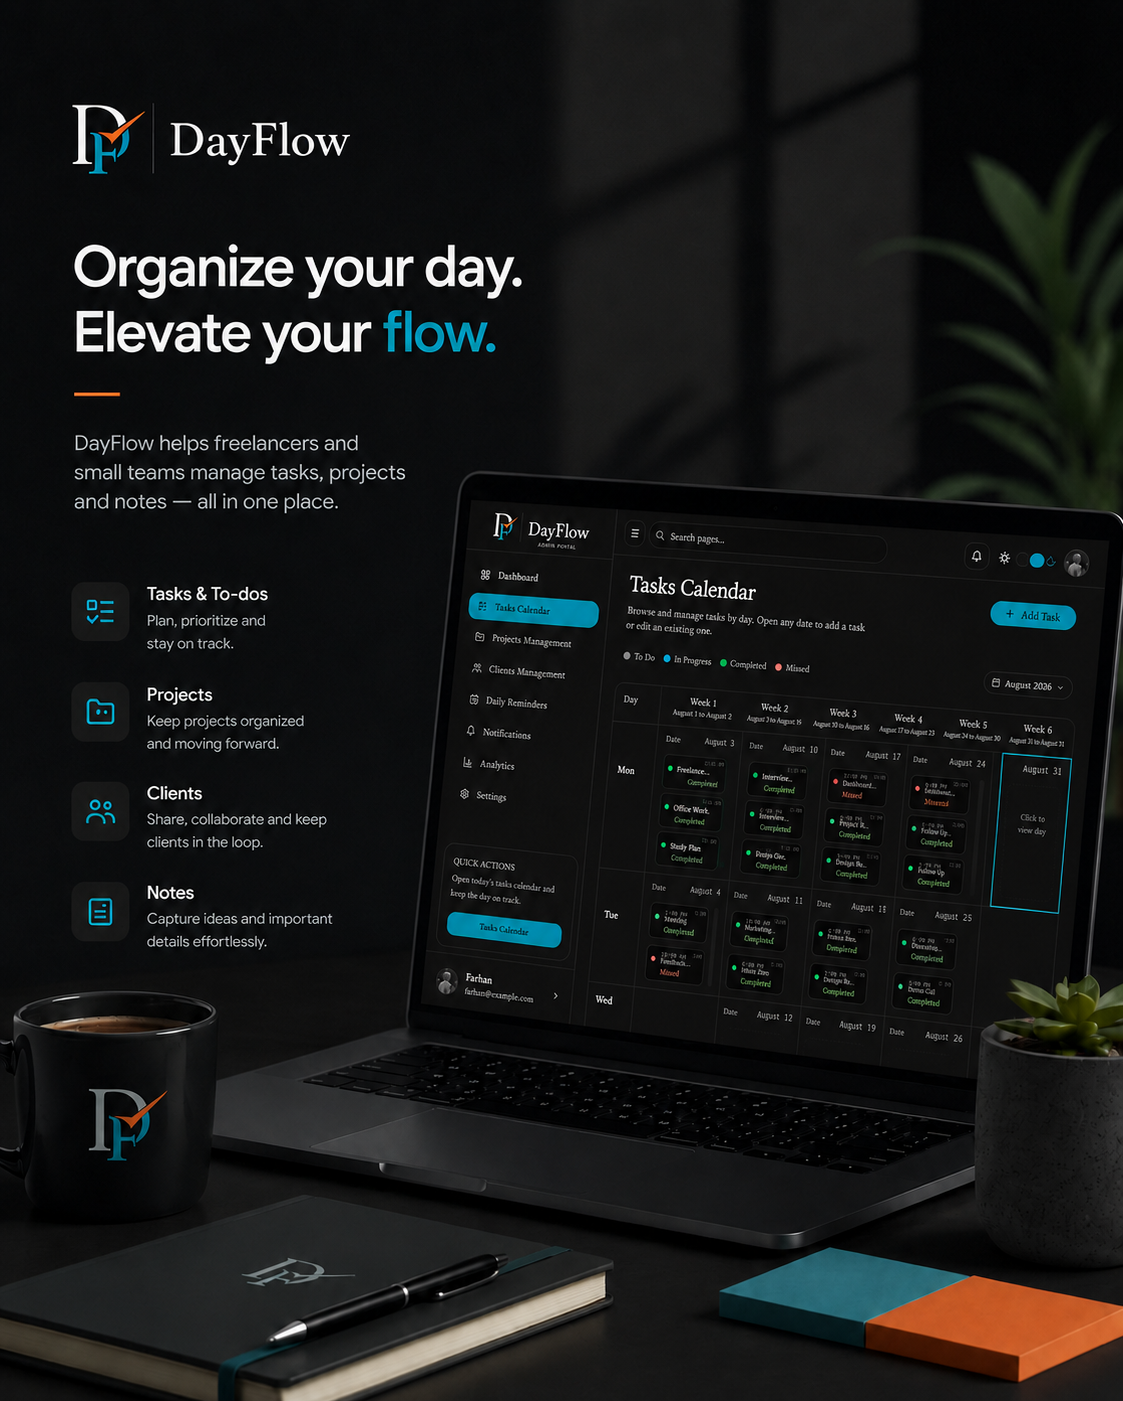
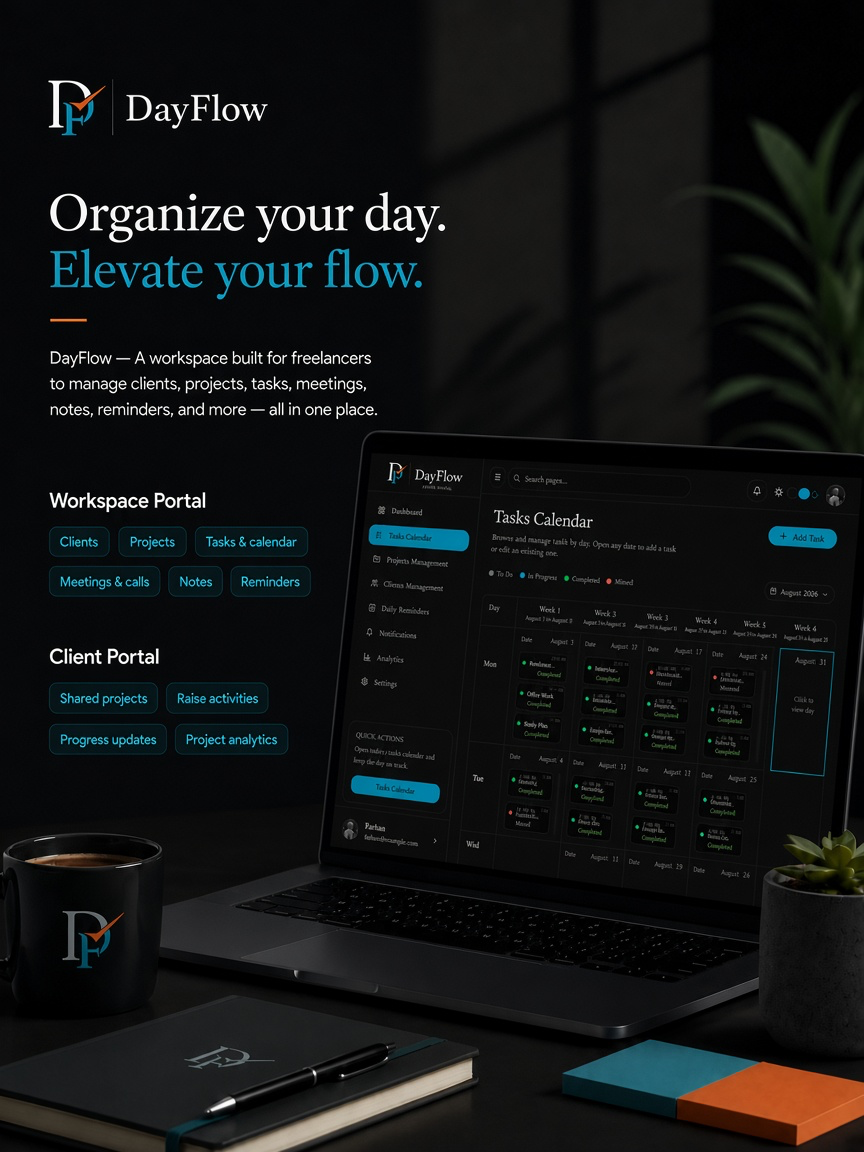
Enhance Brand Integration and Update Portal Layouts
- Added support for JSON module resolution in TypeScript configuration.
- Updated brand promotion banner assets to use values from the brand manifest.
- Refactored portal layout components to dynamically pull brand information, including subtitles and mobile navigation descriptions.
- Improved user avatar handling in header menus and sidebar profiles for consistent branding.
- Introduced a new function to load portal configurations from the brand manifest, ensuring alignment with product positioning.

diff --git a/apps/web/src/shared/components/UserAvatar.tsx b/apps/web/src/shared/components/UserAvatar.tsx
@@ -1,0 +1,55 @@
+import { useState } from "react";
+
+import { cn } from "@/shared/lib/utils";
+
+type UserAvatarProps = {
+  src?: string | null;
+  name: string;
+  initials: string;
+  className?: string;
+  imgClassName?: string;
+  initialsClassName?: string;
+  alt?: string;
+};
+
+/**
+ * Google avatar CDNs often reject requests that include a localhost Referer.
+ * `referrerPolicy="no-referrer"` fixes that; initials cover true load failures.
+ */
+export function UserAvatar({
+  src,
+  name,
+  initials,
+  className,
+  imgClassName,
+  initialsClassName,
+  alt,
+}: UserAvatarProps) {
+  const [failedSrc, setFailedSrc] = useState<string | null>(null);
+  const showImage = Boolean(src) && src !== failedSrc;
+
+  if (!showImage) {
+    return (
+      <span
+        className={cn(
+          "flex size-full items-center justify-center bg-primary/10 text-sm font-semibold text-primary",
+          initialsClassName,
+          className,
+        )}
+        aria-hidden={alt === "" ? true : undefined}
+      >
+        {initials}
+      </span>
+    );
+  }
+
+  return (
+    <img
+      src={src!}
+      alt={alt ?? name}
+      referrerPolicy="no-referrer"
+      onError={() => setFailedSrc(src ?? null)}
+      className={cn("size-full object-cover", imgClassName, className)}
+    />
+  );
+}

diff --git a/apps/web/src/features/client/layouts/ClientAppLayout.tsx b/apps/web/src/features/client/layouts/ClientAppLayout.tsx
@@ -6,12 +6,13 @@ import {
   CLIENT_PORTAL_SETTINGS_PATH,
 } from "@/app/constants/clientPortalRoutes";
 import { CLIENT_AUTH_HOME } from "@/features/client/constants/routes";
+import { BRAND_NAME, brandManifest } from "@/shared/brand/brandManifest";
 import { AppShellLayout } from "@/shared/layouts/AppShellLayout";
 import type { ShellSidebarConfig } from "@/shared/types/components";
 
 const sidebarConfig: ShellSidebarConfig = {
   homeLink: CLIENT_PORTAL_DASHBOARD_PATH,
-  brandSubtitle: "Client Portal",
+  brandSubtitle: brandManifest.portals.client.subtitle,
   nav: [
     { label: "Dashboard", to: CLIENT_PORTAL_DASHBOARD_PATH, icon: "dashboard" },
     { label: "Projects", to: CLIENT_PORTAL_PROJECTS_PATH, icon: "projects" },
@@ -40,7 +41,7 @@ export function ClientAppLayout() {
       accountPath={CLIENT_PORTAL_SETTINGS_PATH}
       settingsPath={CLIENT_PORTAL_SETTINGS_PATH}
       signOutRedirect={CLIENT_AUTH_HOME}
-      mobileNavDescription="DayFlow client portal navigation"
+      mobileNavDescription={`${BRAND_NAME} client portal navigation`}
     />
   );
 }

diff --git a/apps/web/src/shared/components/ShellSidebarProfile.tsx b/apps/web/src/shared/components/ShellSidebarProfile.tsx
@@ -9,6 +9,7 @@ import {
   TooltipContent,
   TooltipTrigger,
 } from "@/shared/ui/tooltip";
+import { UserAvatar } from "@/shared/components/UserAvatar";
 import {
   getInitialsFromName,
   getUserAvatarUrl,
@@ -37,23 +38,19 @@ export function ShellSidebarProfile({
   const initials = getInitialsFromName(displayName);
   const avatarUrl = profile?.avatar_url || getUserAvatarUrl(user);
 
-  const avatar = avatarUrl ? (
-    <img
+  const avatar = (
+    <UserAvatar
       src={avatarUrl}
+      name={displayName}
+      initials={initials}
       alt=""
-      className="size-full object-cover"
-    />
-  ) : (
-    <span
-      className={cn(
-        "flex size-full items-center justify-center text-xs font-semibold",
+      initialsClassName={cn(
+        "text-xs font-semibold",
         isActive
           ? "bg-primary-foreground/15 text-primary-foreground"
           : "bg-primary/10 text-primary",
       )}
-    >
-      {initials}
-    </span>
+    />
   );
 
   const link = (

diff --git a/apps/web/src/shared/layouts/AppLayout.tsx b/apps/web/src/shared/layouts/AppLayout.tsx
@@ -10,11 +10,12 @@ import {
   WORKSPACE_TASKS_CALENDAR_PATH,
 } from "@/app/constants/workspaceRoutes";
 import { NotificationsHeaderButton } from "@/features/workspace/notifications/components/NotificationsHeaderButton";
+import { BRAND_NAME, brandManifest } from "@/shared/brand/brandManifest";
 import type { ShellSidebarConfig } from "@/shared/types/components";
 
 const sidebarConfig: ShellSidebarConfig = {
   homeLink: WORKSPACE_DASHBOARD_PATH,
-  brandSubtitle: "Workspace",
+  brandSubtitle: brandManifest.portals.workspace.subtitle,
   nav: [
     { label: "Dashboard", to: WORKSPACE_DASHBOARD_PATH, icon: "dashboard" },
     {
@@ -62,7 +63,7 @@ export function AppLayout() {
       accountPath={WORKSPACE_SETTINGS_PATH}
       settingsPath={WORKSPACE_SETTINGS_PATH}
       headerActions={<NotificationsHeaderButton />}
-      mobileNavDescription="DayFlow workspace navigation and links"
+      mobileNavDescription={`${BRAND_NAME} workspace navigation and links`}
     />
   );
 }

diff --git a/apps/web/src/shared/components/PortalUserHeaderMenu.tsx b/apps/web/src/shared/components/PortalUserHeaderMenu.tsx
@@ -15,6 +15,7 @@ import {
   DropdownMenuSeparator,
   DropdownMenuTrigger,
 } from "@/shared/ui/dropdown-menu";
+import { UserAvatar } from "@/shared/components/UserAvatar";
 import {
   getInitialsFromName,
   getUserAvatarUrl,
@@ -60,17 +61,11 @@ export function PortalUserHeaderMenu({
               avatarUrl && "bg-transparent",
             )}
           >
-            {avatarUrl ? (
-              <img
-                src={avatarUrl}
-                alt={displayName}
-                className="size-full object-cover"
-              />
-            ) : (
-              <span className="flex size-full items-center justify-center bg-primary/10 text-sm font-semibold text-primary">
-                {initials}
-              </span>
-            )}
+            <UserAvatar
+              src={avatarUrl}
+              name={displayName}
+              initials={initials}
+            />
           </Button>
         </DropdownMenuTrigger>
 

diff --git a/apps/web/src/shared/components/SidebarBrand.tsx b/apps/web/src/shared/components/SidebarBrand.tsx
@@ -1,3 +1,4 @@
+import { BRAND_NAME } from "@/shared/brand/brandManifest";
 import { resolveBrandLogoSrc } from "@/shared/constants/brandAssets";
 import { useTheme } from "@/shared/providers/ThemeProvider";
 import { cn } from "@/shared/lib/utils";
@@ -20,7 +21,7 @@ export function SidebarBrand({
     return (
       <img
         src={iconSrc}
-        alt="DayFlow"
+        alt={BRAND_NAME}
         className={cn("size-9.75 shrink-0 object-contain", className)}
       />
     );
@@ -40,7 +41,7 @@ export function SidebarBrand({
       />
       <div className="min-w-0 shrink-0">
         <p className="font-serif text-[1.25rem] font-semibold leading-none tracking-[0.02em] text-sidebar-foreground">
-          DayFlow
+          {BRAND_NAME}
         </p>
         {subtitle ? (
           <p className="mt-0.5 text-[9px] font-semibold uppercase leading-none tracking-[0.1em] text-muted-foreground">

diff --git a/apps/web/src/shared/constants/brandAssets.ts b/apps/web/src/shared/constants/brandAssets.ts
@@ -1,3 +1,5 @@
+import { brandManifest } from "@/shared/brand/brandManifest";
+
 /** DayFlow brand images in /public — use these paths only. */
 export const BRAND_LOGO = {
   light: "/logo-light.png",
@@ -7,11 +9,11 @@ export const BRAND_LOGO = {
 } as const;
 
 export const BRAND_PROMOTION_BANNER = {
-  light: "/brand-promotion-banner-light.png",
-  dark: "/brand-promotion-banner-dark.png",
+  light: brandManifest.promotionBanners.light,
+  dark: brandManifest.promotionBanners.dark,
   /** Native asset size — keep in sync if banners are replaced. */
-  width: 1122,
-  height: 1402,
+  width: 864,
+  height: 1152,
 } as const;
 
 /** Width / height — used to size the auth banner column without cropping. */

diff --git a/apps/web/src/features/workspace/auth/components/AuthShellLayout.tsx b/apps/web/src/features/workspace/auth/components/AuthShellLayout.tsx
@@ -1,6 +1,7 @@
 import type { CSSProperties, ReactNode } from "react";
 import { useEffect, useMemo } from "react";
 
+import { BRAND_DESCRIPTION, BRAND_NAME } from "@/shared/brand/brandManifest";
 import {
   BRAND_PROMOTION_BANNER,
   BRAND_PROMOTION_BANNER_ASPECT,
@@ -63,7 +64,9 @@ export function AuthShellLayout({
           draggable={false}
           className="h-full w-full object-contain object-center"
         />
-        <span className="sr-only">DayFlow</span>
+        <span className="sr-only">
+          {BRAND_NAME}. {BRAND_DESCRIPTION}
+        </span>
       </div>
 
       <div

diff --git a/apps/web/src/shared/brand/brandManifest.ts b/apps/web/src/shared/brand/brandManifest.ts
@@ -1,0 +1,14 @@
+import brandManifestJson from "./brandManifest.json";
+
+/**
+ * DayFlow brand & product positioning — single source of truth.
+ * Edit `brandManifest.json`; this module re-exports it for the app.
+ */
+export const brandManifest = brandManifestJson;
+
+export type BrandManifest = typeof brandManifest;
+export type BrandPortalKey = keyof typeof brandManifest.portals;
+
+export const BRAND_NAME = brandManifest.name;
+export const BRAND_TAGLINE = brandManifest.tagline;
+export const BRAND_DESCRIPTION = brandManifest.description;

diff --git a/apps/web/src/shared/components/DayFlowLogo.tsx b/apps/web/src/shared/components/DayFlowLogo.tsx
@@ -1,3 +1,4 @@
+import { BRAND_NAME } from "@/shared/brand/brandManifest";
 import { resolveBrandLogoSrc } from "@/shared/constants/brandAssets";
 import { useTheme } from "@/shared/providers/ThemeProvider";
 import { cn } from "@/shared/lib/utils";
@@ -21,7 +22,7 @@ export function DayFlowLogo({
   const image = (
     <img
       src={src}
-      alt="DayFlow"
+      alt={BRAND_NAME}
       className={cn(
         "object-contain object-left",
         variant === "icon" ? "size-9.75" : "h-10 w-auto max-w-[12rem]",

diff --git a/apps/web/scripts/generate-auth-panels.py b/apps/web/scripts/generate-auth-panels.py
@@ -3,6 +3,7 @@
 
 from __future__ import annotations
 
+import json
 import math
 from pathlib import Path
 
@@ -63,20 +64,58 @@ THEMES = {
     },
 }
 
-PORTALS = {
-    "admin": {
-        "label": "Admin Portal",
-        "headline": "Run your studio\nwith clarity.",
-        "subline": "Tasks, projects, clients, and reminders — orchestrated in one workspace.",
-        "features": ["Task boards", "Client CRM", "Analytics"],
-    },
-    "client": {
-        "label": "Client Portal",
-        "headline": "Your projects,\nalways in sync.",
-        "subline": "Track progress, review updates, and stay aligned with your team.",
-        "features": ["Live updates", "Project hub", "Activity feed"],
-    },
-}
+BRAND_MANIFEST_PATH = (
+    Path(__file__).resolve().parent.parent / "src" / "shared" / "brand" / "brandManifest.json"
+)
+
+
+def load_portals_from_brand_manifest() -> dict:
+    """Prefer brandManifest.json so auth panels stay aligned with product positioning."""
+    try:
+        data = json.loads(BRAND_MANIFEST_PATH.read_text(encoding="utf-8"))
+    except OSError:
+        data = None
+
+    if not data:
+        return {
+            "admin": {
+                "label": "Workspace Portal",
+                "headline": "Run your studio\nwith clarity.",
+                "subline": (
+                    "A workspace built for freelancers to manage clients, projects, "
+                    "tasks, meetings, notes, reminders, and more — all in one place."
+                ),
+                "features": ["Clients", "Projects", "Tasks & calendar"],
+            },
+            "client": {
+                "label": "Client Portal",
+                "headline": "Your projects,\nalways in sync.",
+                "subline": (
+                    "A focused portal for clients to follow shared work and raise activities."
+                ),
+                "features": ["Shared projects", "Raise activities", "Progress updates"],
+            },
+        }
+
+    workspace = data["portals"]["workspace"]
+    client = data["portals"]["client"]
+    return {
+        "admin": {
+            "label": workspace["label"],
+            "headline": "Run your studio\nwith clarity.",
+            "subline": data["description"],
+            "features": [item["name"] for item in workspace["features"][:3]],
+        },
+        "client": {
+            "label": client["label"],
+            "headline": "Your projects,\nalways in sync.",
+            "subline": client["description"],
+            "features": [item["name"] for item in client["features"][:3]],
+        },
+    }
+
+
+PORTALS = load_portals_from_brand_manifest()
 
 
 def lerp_color(a: tuple[int, ...], b: tuple[int, ...], t: float) -> tuple[int, ...]:
